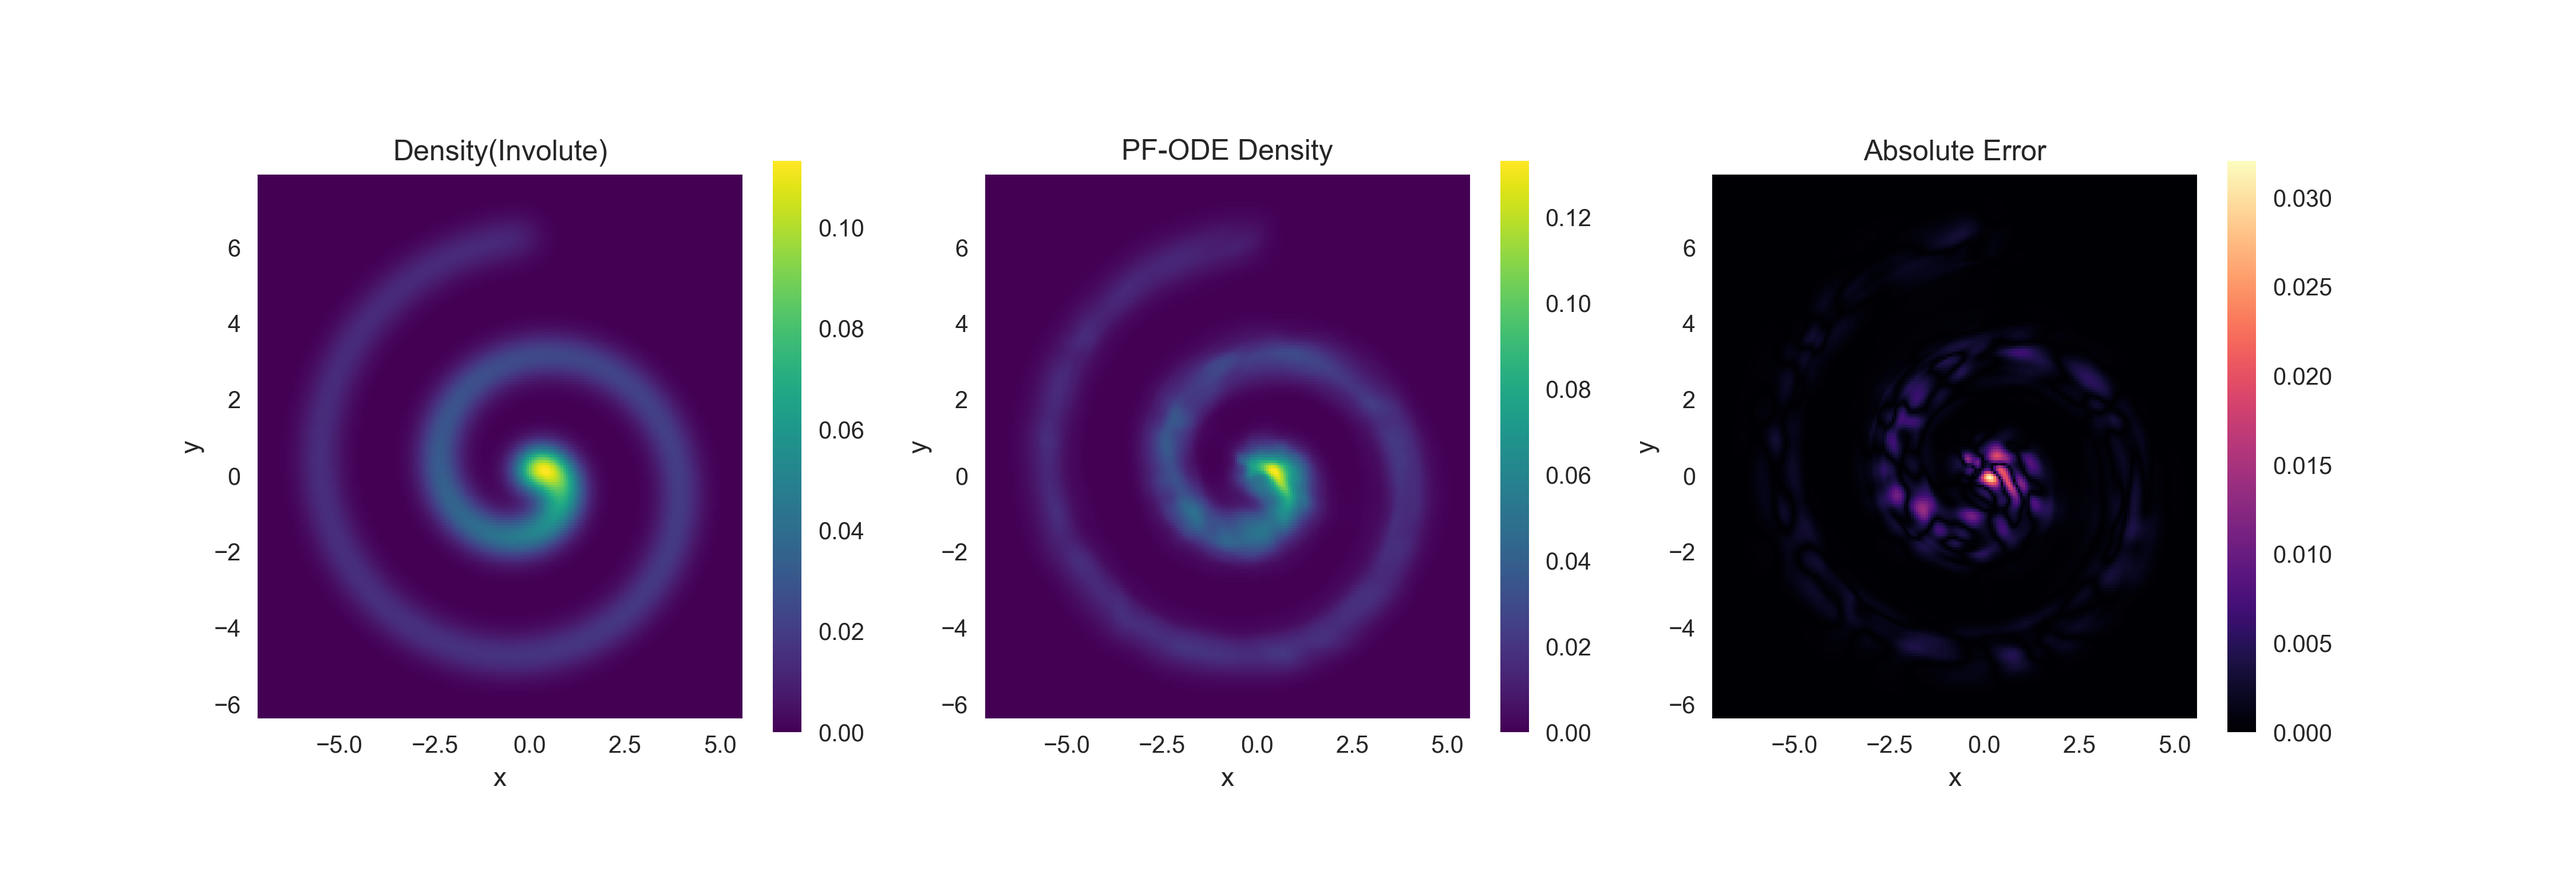
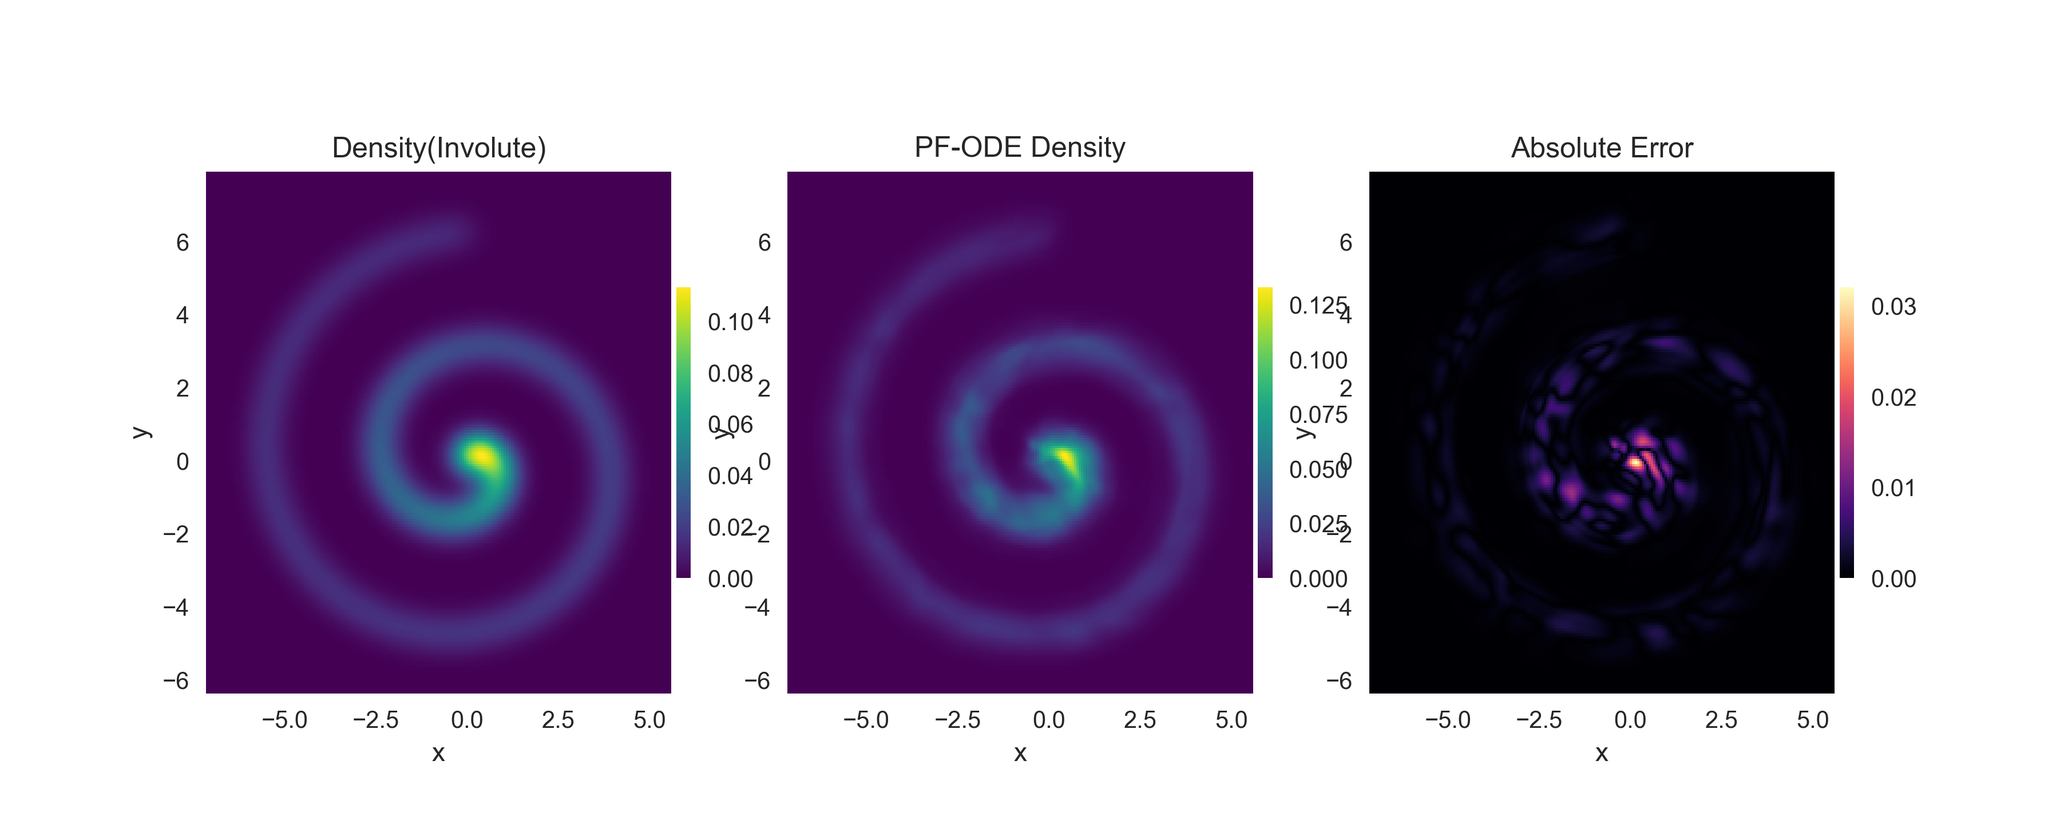
1230

diff --git a/show_density_heatmap.py b/show_density_heatmap.py
@@ -162,7 +162,7 @@ def main() -> None:
     abs_error = np.abs(model_density - analytic_density)
 
     plt.style.use("seaborn-v0_8")
-    fig, axes = plt.subplots(1, 3, figsize=(15, 5.2))
+    fig, axes = plt.subplots(1, 3, figsize=(12, 4.8))
 
     density_cmap = plt.get_cmap("viridis")
     error_cmap = plt.get_cmap("magma")
@@ -171,24 +171,25 @@ def main() -> None:
     axes[0].set_title("Density(Involute)")
     axes[0].set_xlabel("x")
     axes[0].set_ylabel("y")
-    fig.colorbar(im0, ax=axes[0], shrink=0.8)
+    fig.colorbar(im0, ax=axes[0], shrink=1.0, fraction=0.03, pad=0.01)
 
     im1 = axes[1].pcolormesh(grid_x, grid_y, model_density, shading="auto", cmap=density_cmap)
     axes[1].set_title("PF-ODE Density")
     axes[1].set_xlabel("x")
     axes[1].set_ylabel("y")
-    fig.colorbar(im1, ax=axes[1], shrink=0.8)
+    fig.colorbar(im1, ax=axes[1], shrink=1.0, fraction=0.03, pad=0.01)
 
     im2 = axes[2].pcolormesh(grid_x, grid_y, abs_error, shading="auto", cmap=error_cmap)
     axes[2].set_title("Absolute Error")
     axes[2].set_xlabel("x")
     axes[2].set_ylabel("y")
-    fig.colorbar(im2, ax=axes[2], shrink=0.8)
+    fig.colorbar(im2, ax=axes[2], shrink=1.0, fraction=0.03, pad=0.01)
 
     for ax in axes:
         ax.set_aspect("equal")
+        
 
-    fig.subplots_adjust(left=0.10, right=0.90, bottom=0.10, top=0.90)
+    fig.subplots_adjust(left=0.10, right=0.90, bottom=0.05, top=0.90)
 
     fig.savefig(output_path, dpi=300)
     print(f"Saved heatmaps to {output_path}")
